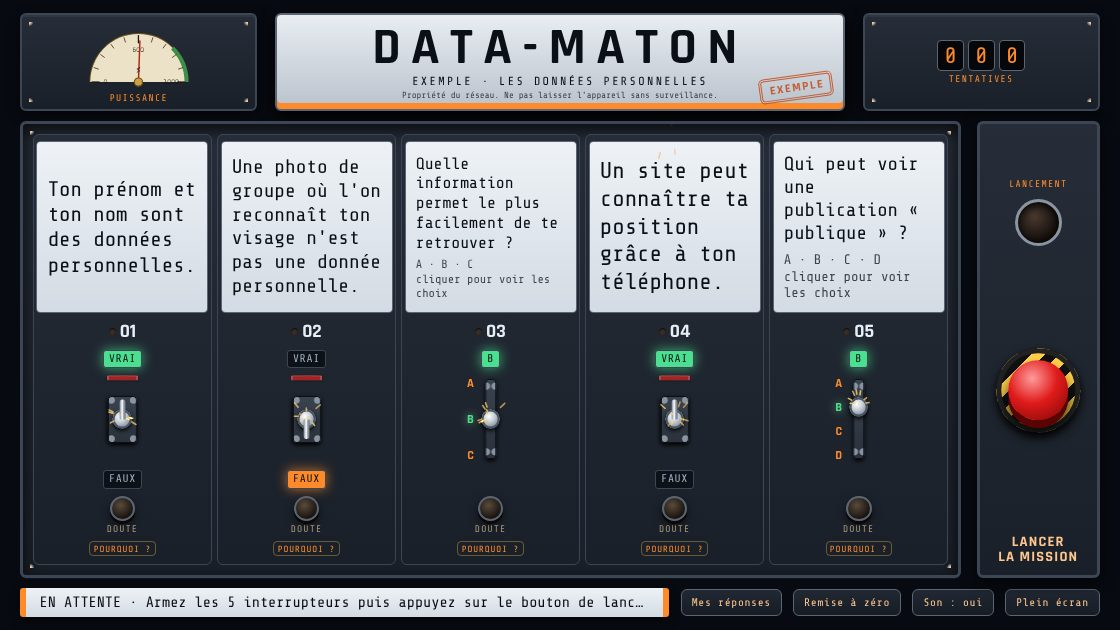
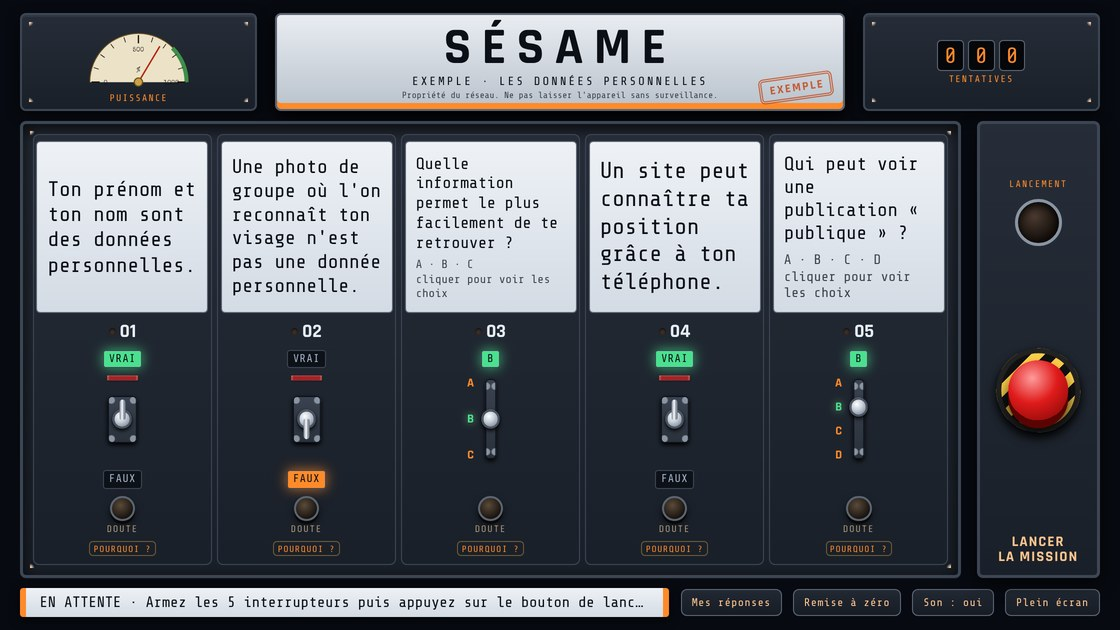
Sésame : titre de l'exemple « SÉSAME » au lieu de « DATA-MATON », captures refaites
Claude-Session: https://claude.ai/code/session_01BowpkSH4DiH2rT4ZfLkDYc

diff --git a/outils/jeux/sesame/exemple/index.html b/outils/jeux/sesame/exemple/index.html
@@ -893,7 +893,7 @@ body.amb-grimoire .knob::before{content:"";position:absolute;inset:0;border-radi
 /* ===================== RÉGLAGES DU JEU =====================
    Tout le contenu du jeu est dans CONFIG (rempli à la fabrication).
    La bonne combinaison n'y figure pas en clair : seul son empreinte « hash » y est. */
-const CONFIG = {"id":"jnpm53zrt","haut":"VRAI","bas":"FAUX","message":"Bravo ! Vous savez repérer ce qui est une donnée personnelle. Mission suivante : vérifiez les réglages de confidentialité d'un de vos comptes.","lien":"","signature":"Le professeur","titre":"DATA-MATON","modele":"Exemple · Les données personnelles","tampon":"EXEMPLE","avert":"Propriété du réseau. Ne pas laisser l'appareil sans surveillance.","attente":"Armez les {n} interrupteurs puis appuyez sur le bouton de lancement.","succes":"Décollage réussi. Bien joué !","echec":"Erreur de trajectoire, vérifiez vos interrupteurs.","enTete":"CONTRÔLE DE MISSION","lieu":"","de":"DE : LE QG","ambiance":"spatial","items":[{"texte":"Ton prénom et ton nom sont des données personnelles."},{"texte":"Une photo de groupe où l'on reconnaît ton visage n'est pas une donnée personnelle."},{"texte":"Quelle information permet le plus facilement de te retrouver ?\nA. Ta couleur préférée\nB. Le nom de ton collège et ta classe\nC. Ton plat préféré","q":3},{"texte":"Un site peut connaître ta position grâce à ton téléphone."},{"texte":"Qui peut voir une publication « publique » ?\nA. Seulement tes amis\nB. Tout le monde, même sans compte\nC. Personne\nD. Seulement ta famille","q":4}],"hash":"1ncqwhts9d0"};
+const CONFIG = {"id":"jnpm53zrt","haut":"VRAI","bas":"FAUX","message":"Bravo ! Vous savez repérer ce qui est une donnée personnelle. Mission suivante : vérifiez les réglages de confidentialité d'un de vos comptes.","lien":"","signature":"Le professeur","titre":"SÉSAME","modele":"Exemple · Les données personnelles","tampon":"EXEMPLE","avert":"Propriété du réseau. Ne pas laisser l'appareil sans surveillance.","attente":"Armez les {n} interrupteurs puis appuyez sur le bouton de lancement.","succes":"Décollage réussi. Bien joué !","echec":"Erreur de trajectoire, vérifiez vos interrupteurs.","enTete":"CONTRÔLE DE MISSION","lieu":"","de":"DE : LE QG","ambiance":"spatial","items":[{"texte":"Ton prénom et ton nom sont des données personnelles."},{"texte":"Une photo de groupe où l'on reconnaît ton visage n'est pas une donnée personnelle."},{"texte":"Quelle information permet le plus facilement de te retrouver ?\nA. Ta couleur préférée\nB. Le nom de ton collège et ta classe\nC. Ton plat préféré","q":3},{"texte":"Un site peut connaître ta position grâce à ton téléphone."},{"texte":"Qui peut voir une publication « publique » ?\nA. Seulement tes amis\nB. Tout le monde, même sans compte\nC. Personne\nD. Seulement ta famille","q":4}],"hash":"1ncqwhts9d0"};
 /* =========================================================== */
 const C = Object.assign({
   id:'jeu', titre:'CHRONOPHONE', modele:'', tampon:'', avert:'',

diff --git a/outils/jeux/sesame/atelier/index.html b/outils/jeux/sesame/atelier/index.html
@@ -337,7 +337,7 @@ const TEXTES_AMB={
 function textesAmbiance(k){ Object.keys(TEXTES_AMB.vapeur).forEach(c=>{ const tous=Object.values(TEXTES_AMB).map(t=>t[c]).filter(Boolean); if(tous.includes(cfg[c])) cfg[c]=(TEXTES_AMB[k]&&TEXTES_AMB[k][c])||TEXTES_AMB.vapeur[c]; }); CHAMPS.forEach(c=>{ $(c).value=cfg[c]||''; }); };
 function dessinerAmbs(){ if(cfg.ambiance==='futur') cfg.ambiance='spatial'; if(cfg.ambiance==='coffre') cfg.ambiance='vapeur'; if(!AMBS.some(x=>x[0]===cfg.ambiance)) cfg.ambiance='vapeur'; const a=$('ambs'); a.innerHTML=''; AMBS.forEach(([k,ap,n,d])=>{ const w=document.createElement('div'); w.className='ambc'; const b=document.createElement('button'); b.className='amb '+k; b.setAttribute('aria-pressed',(cfg.ambiance||'vapeur')===k); b.innerHTML=`<span class="ap">${ap}</span><span class="an">${n}<small>${d}</small></span>`; b.onclick=()=>{ cfg.ambiance=k; textesAmbiance(k); dessinerAmbs(); garder(); msg('Ambiance « '+n+' » choisie. Cliquez « Essayer le jeu » pour la voir.'); }; const v=document.createElement('button'); v.className='voir'; v.type='button'; v.textContent='▶ Voir un exemple'; v.setAttribute('aria-label','Voir un exemple de jeu en style '+n); v.onclick=()=>apercuStyle(k,n); w.append(b,v); a.appendChild(w); }); }
 const EXEMPLE = () => Object.assign(DEFAUT(), {
-  ambiance:'spatial', mode:'mixte', haut:'VRAI', bas:'FAUX', titre:'DATA-MATON', modele:'Exemple · Les données personnelles', tampon:'EXEMPLE',
+  ambiance:'spatial', mode:'mixte', haut:'VRAI', bas:'FAUX', titre:'SÉSAME', modele:'Exemple · Les données personnelles', tampon:'EXEMPLE',
   message:'Bravo ! Vous savez repérer ce qui est une donnée personnelle. Mission suivante : vérifiez les réglages de confidentialité d\'un de vos comptes.',
   items:[
     {texte:'Ton prénom et ton nom sont des données personnelles.',rep:'h'},
